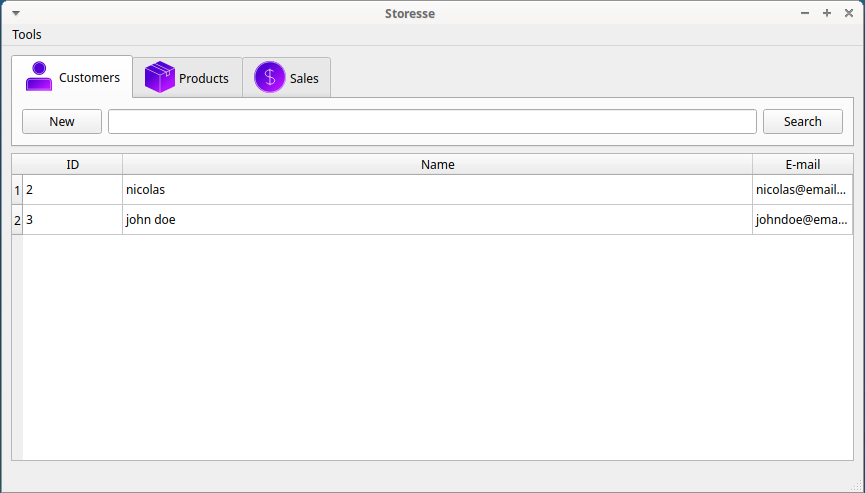
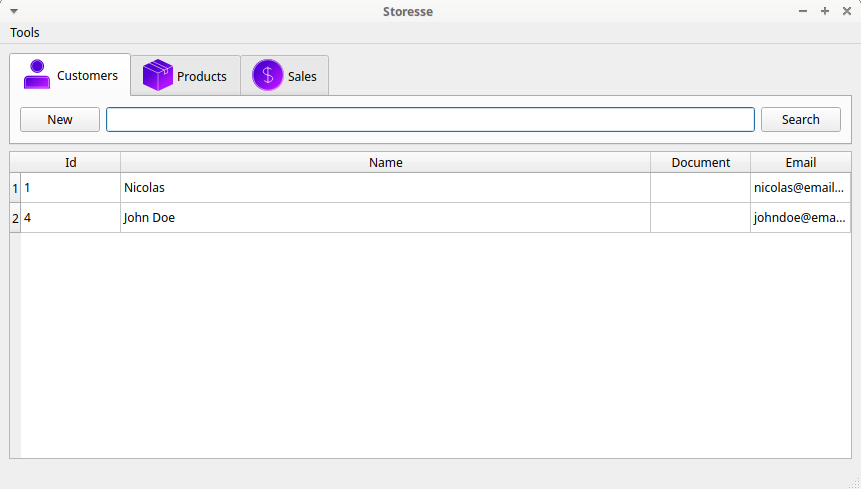
Add search for costumers and products

Changed region(s): [[0.0, 0.0, 1.0, 1.0], [0.4228, 0.0, 0.5134, 0.0613], [0.1208, 0.4294, 0.2114, 0.4601]]

diff --git a/src/httprequest.cpp b/src/httprequest.cpp
@@ -181,3 +181,80 @@ QStandardItemModel* HttpRequest::getModel(StoresseEntity::entity entity){
     return model;
 }
 
+QStandardItemModel* HttpRequest::getCustomersModel(QString name){
+    QStandardItemModel *model = new QStandardItemModel;
+
+    QNetworkAccessManager localManager;
+    QEventLoop eventLoop;
+    QObject::connect(&localManager, &QNetworkAccessManager::finished,
+                     &eventLoop, &QEventLoop::quit);
+    QUrl url;
+    url.setUrl(QString(s_baseUrl.toString() + "customers?name=" + name));
+    s_requestWithToken.setUrl(url);
+
+    QNetworkReply* reply = localManager.get(s_requestWithToken);
+    eventLoop.exec();
+
+    QJsonDocument jsonDoc = QJsonDocument::fromJson(reply->readAll());
+    StoresseCustomer customer;
+
+    int row = 0;
+    int column = 0;
+    for (QVariant item : jsonDoc.toVariant().toMap()["data"].toList()){
+        column = 0;
+
+        for(QVariant &field : customer.getSummaryFields()){
+            model->setItem(row, column, new QStandardItem(item.toMap()[field.toString()].toString()));
+            column++;
+        }
+        row++;
+    }
+
+    int section = 0;
+    for(QVariant &field : customer.getSummaryFields()){
+
+        model->setHeaderData(section, Qt::Horizontal, field.toString().left(1).toUpper() + field.toString().mid(1));
+        section++;
+
+    }
+    return model;
+}
+
+QStandardItemModel* HttpRequest::getProductsModel(QString name){
+    QStandardItemModel *model = new QStandardItemModel;
+
+    QNetworkAccessManager localManager;
+    QEventLoop eventLoop;
+    QObject::connect(&localManager, &QNetworkAccessManager::finished,
+                     &eventLoop, &QEventLoop::quit);
+    QUrl url;
+    url.setUrl(QString(s_baseUrl.toString() + "products?name=" + name));
+    s_requestWithToken.setUrl(url);
+
+    QNetworkReply* reply = localManager.get(s_requestWithToken);
+    eventLoop.exec();
+
+    QJsonDocument jsonDoc = QJsonDocument::fromJson(reply->readAll());
+    StoresseProduct product;
+
+    int row = 0;
+    int column = 0;
+    for (QVariant item : jsonDoc.toVariant().toMap()["data"].toList()){
+        column = 0;
+
+        for(QVariant &field : product.getSummaryFields()){
+            model->setItem(row, column, new QStandardItem(item.toMap()[field.toString()].toString()));
+            column++;
+        }
+        row++;
+    }
+
+    int section = 0;
+    for(QVariant &field : product.getSummaryFields()){
+
+        model->setHeaderData(section, Qt::Horizontal, field.toString().left(1).toUpper() + field.toString().mid(1));
+        section++;
+
+    }
+    return model;
+}

diff --git a/src/mainwindow.cpp b/src/mainwindow.cpp
@@ -5,7 +5,6 @@
 #include "storessecustomer.h"
 #include <QModelIndex>
 #include <QHeaderView>
-#include <QStandardItemModel>
 #include "noteditableitemdelegate.h"
 #include "customerwidget.h"
 
@@ -14,7 +13,6 @@ MainWindow::MainWindow(QWidget *parent)
     , ui(new Ui::MainWindow)
 {
     ui->setupUi(this);
-
 }
 
 MainWindow::~MainWindow()
@@ -26,33 +24,31 @@ void MainWindow::setUpTable(){
     int currentTab = ui->tabWidget->currentIndex();
 
     HttpRequest request;
-    QStandardItemModel *model;
-
     switch (currentTab) {
     case 0:{
-        model = request.getModel(StoresseEntity::Customer);
+        tableModel = request.getCustomersModel(ui->searchCustomersLineEdit->text());
 
 
         break;
     }
     case 1:{
-        model = request.getModel(StoresseEntity::Product);
+        tableModel = request.getProductsModel(ui->searchProductsLineEdit->text());
         break;
     }
     case 2:{
-        model = request.getModel(StoresseEntity::Sale);
+//        model = request.getSalesModel();
 
         break;
     }
     }
 
-    ui->tableView->setModel(model);
+    ui->tableView->setModel(tableModel);
 
-    if(model->rowCount() > 0){
+    if(tableModel->rowCount() > 0){
         ui->tableView->horizontalHeader()->setSectionResizeMode(1, QHeaderView::Stretch);
     }
 
-    for (int i=0; i<model->columnCount(); i++ ) {
+    for (int i=0; i<tableModel->columnCount(); i++ ) {
         NotEditableItemDelegate *itemDelegate = new NotEditableItemDelegate(ui->tableView);
         ui->tableView->setItemDelegateForColumn(i, itemDelegate);
     }

diff --git a/src/loginwidget.cpp b/src/loginwidget.cpp
@@ -23,10 +23,10 @@ LoginWidget::~LoginWidget()
 }
 
 void LoginWidget::connect(){
-    HttpRequest *request = new HttpRequest(this);
+    HttpRequest *request = new HttpRequest;
 
-    QObject::connect(request, SIGNAL(loggedIn()), this, SLOT(showMainWindow()));
     QObject::connect(request, SIGNAL(loggedIn()), this, SLOT(saveSettings()));
+    QObject::connect(request, SIGNAL(loggedIn()), this, SLOT(showMainWindow()));
     QObject::connect(request, SIGNAL(loginFailed(int)), this, SLOT(loginFailed(int)));
 
     request->setHostname(ui->hostnameLineEdit->text());

diff --git a/src/httprequest.h b/src/httprequest.h
@@ -44,9 +44,11 @@ public:
 
     QStandardItemModel *getModel(StoresseEntity::entity entity);
 
-    QStandardItemModel *getCustomersModel();
+    QStandardItemModel *getCustomersModel(QString name);
 
-    QStandardItemModel *getProductsModel();
+    QStandardItemModel *getProductsModel(QString name);
+
+
 
 private slots:
     void loginReplyFinished(QNetworkReply* reply);

diff --git a/src/mainwindow.h b/src/mainwindow.h
@@ -3,6 +3,7 @@
 
 #include <QMainWindow>
 #include <QTableWidgetItem>
+#include <QStandardItemModel>
 
 QT_BEGIN_NAMESPACE
 namespace Ui { class MainWindow; }
@@ -24,6 +25,8 @@ private:
     Ui::MainWindow *ui;
 
     QRect getSubWindowRect(float width, float height);
+
+    QStandardItemModel *tableModel;
 
 private slots:
     void newSale();
